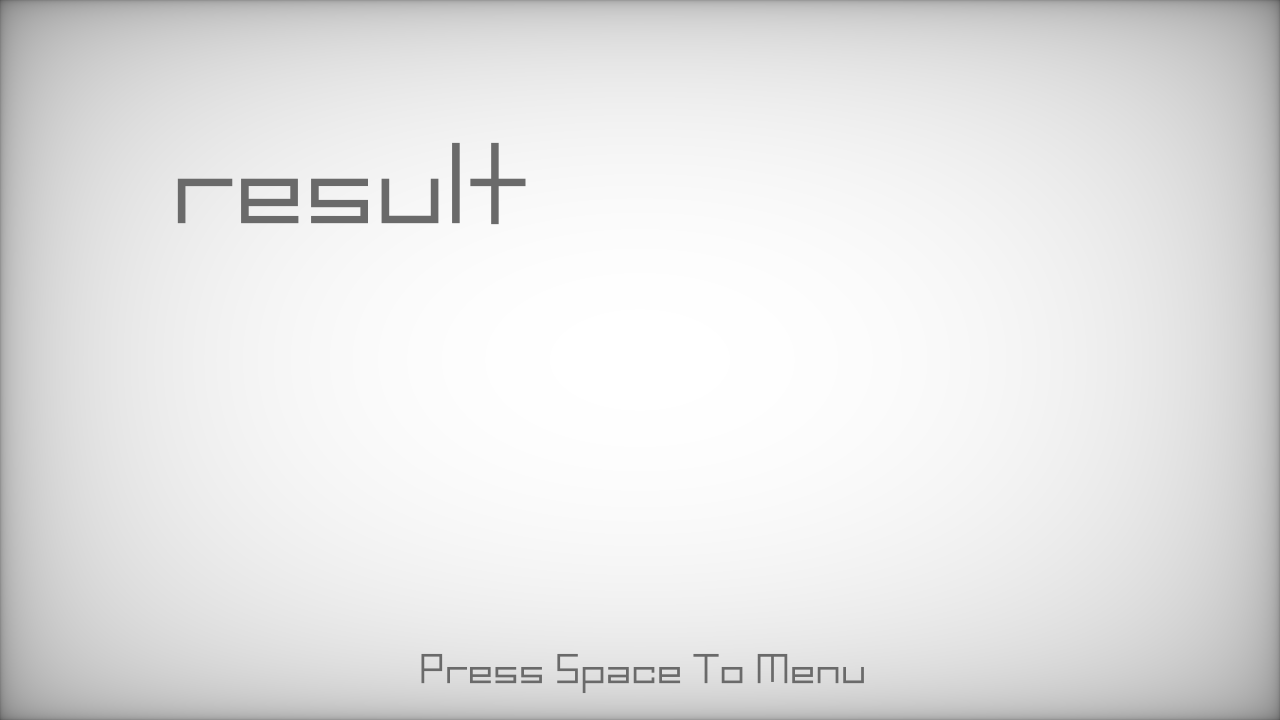
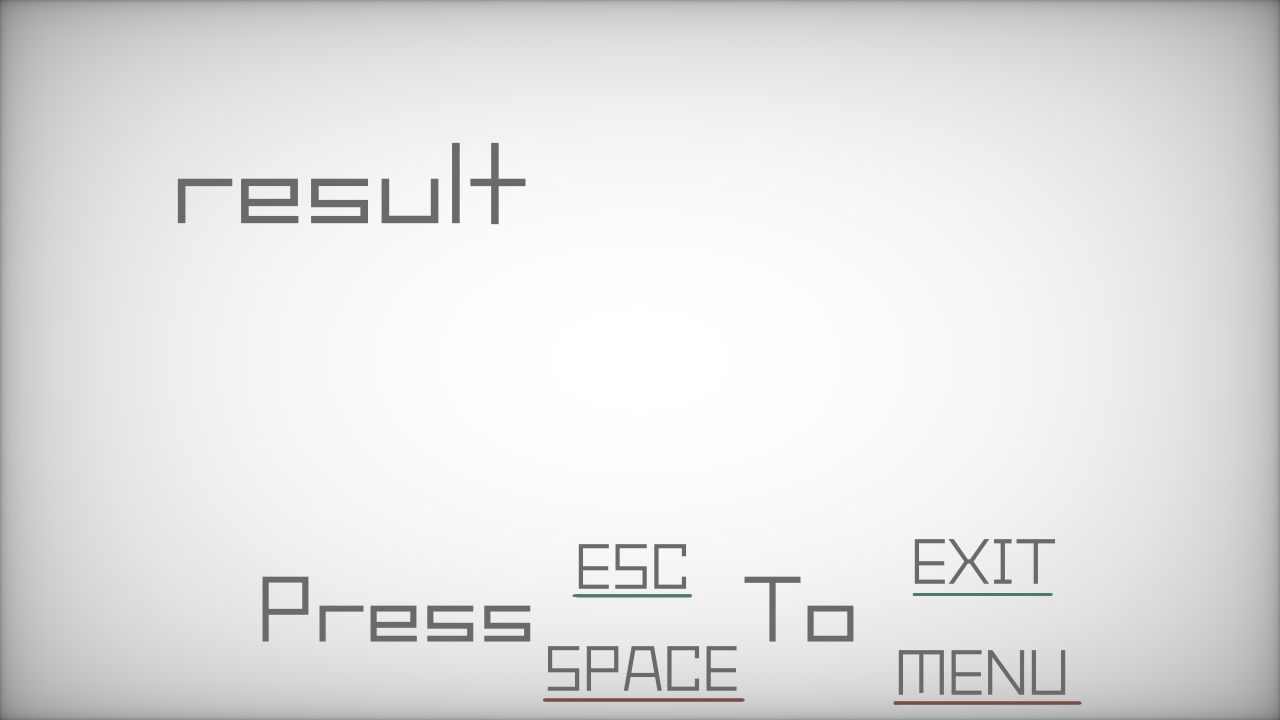
リザルト画面画像差し替え 提出データはいったんこれ

Changed region(s): [[0.1875, 0.7944, 0.8438, 0.9778], [0.4375, 0.7333, 0.5312, 0.8556], [0.6875, 0.7333, 0.8125, 0.825]]

diff --git a/Game/Scene/ResultScene.cpp b/Game/Scene/ResultScene.cpp
@@ -2,7 +2,9 @@
 #include "../../Engine/Image.h"
 
 ResultScene::ResultScene(GameObject* parent):
-	GameObject(parent,"ResultScene")
+	GameObject(parent,"ResultScene"),
+	resultImageHandle_(-1),
+	score_(nullptr)
 {
 }
 
@@ -10,6 +12,7 @@ void ResultScene::Initialize()
 {
 	resultImageHandle_ = Image::Load("Scene/ResultImage/Result.png");
 	assert(resultImageHandle_ >= 0);
+
 
 	score_ = new Text;
 	score_->Initialize("number.png", 64, 68, 15);

diff --git a/Game/Scene/TitleScene.cpp b/Game/Scene/TitleScene.cpp
@@ -9,7 +9,9 @@ namespace
 TitleScene::TitleScene(GameObject* parent):
 	GameObject(parent,"TitleScene"),
 	titleImageHandle_(-1),
-	pressSpaceImageHandle_(-1)
+	pressSpaceImageHandle_(-1),
+	opacity_(0),
+	incleasing_(true)
 {
 }
 

diff --git a/Game/Player/Player.cpp b/Game/Player/Player.cpp
@@ -21,7 +21,8 @@ Player::Player(GameObject* parent) :
 	pModelHandle_(-1),
 	playerVec_{},
 	rotateAngle_{},
-	canMove_(true)
+	canMove_(true),
+	pGun(nullptr)
 {
 }
 
